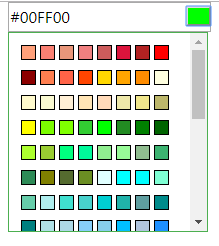
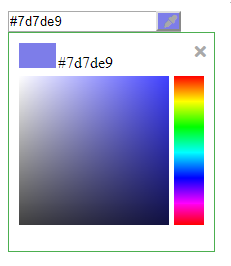
add canvas to select color

diff --git a/projects/np-color-picker/src/lib/np-color-picker.component.ts b/projects/np-color-picker/src/lib/np-color-picker.component.ts
@@ -17,7 +17,8 @@ export class NpColorPickerComponent implements OnInit {
   @Output() onChange: EventEmitter<any> = new EventEmitter();
   @Input() disabled: boolean;
 
-  _primaryColor: string = "#0000ff";
+  _stripColor: string = "#0000ff";
+  _currentCursorColor: string = "";
 
   public context: CanvasRenderingContext2D;
 
@@ -33,9 +34,11 @@ export class NpColorPickerComponent implements OnInit {
     }
   }
 
-  ngOnChanges(changes: SimpleChanges) {
+  ngOnChanges(changes: SimpleChanges) {    
     if (changes.value != undefined && changes.value.currentValue != this._value) {
       this._value = changes.value.currentValue;
+      this._currentCursorColor = changes.value.currentValue;
+      this._stripColor = changes.value.currentValue;      
       if (this.onChange != undefined && !changes.value.firstChange) {
         this.onChange.emit(this._value);
       }
@@ -57,6 +60,8 @@ export class NpColorPickerComponent implements OnInit {
 
   _onInputChange() {
     this.value = this._value;
+    this._currentCursorColor = this._value;
+    this._stripColor = this._value;
     this.valueChange.emit(this._value);
     if (this.onChange != undefined) {
       this.onChange.emit(this._value);
@@ -69,7 +74,7 @@ export class NpColorPickerComponent implements OnInit {
     var ctx1 = block.getContext('2d');
     var ctx2 = strip.getContext('2d');
 
-    ctx1.fillStyle = this._primaryColor.length > 0 ? this._primaryColor : this.value;
+    ctx1.fillStyle = this._stripColor.length > 0 ? this._stripColor : this.value;
     ctx1.fillRect(0, 0, 200, 200);
 
     var grdWhite = ctx2.createLinearGradient(0, 0, 200, 0);
@@ -97,25 +102,35 @@ export class NpColorPickerComponent implements OnInit {
     ctx2.fill();
   }
 
-  clickStrip(e: any) {
+  clickStrip(e: any, isUpdateColor: boolean) {
     var strip = <HTMLCanvasElement>this.elRef.nativeElement.querySelector('.np-canvas-strip');
     var ctx2 = strip.getContext('2d');
     var x = e.offsetX;
     var y = e.offsetY;
     var imageData = ctx2.getImageData(x, y, 1, 1).data;
-    this._primaryColor = this.fullColorHex(imageData[0], imageData[1], imageData[2]);
-    this._updateCanvas();
+    if (isUpdateColor) {
+      this._stripColor = this.fullColorHex(imageData[0], imageData[1], imageData[2]);
+      this._currentCursorColor = this._stripColor;
+      this._updateCanvas();
+    } else {
+      this._currentCursorColor = this.fullColorHex(imageData[0], imageData[1], imageData[2]);
+    }
   }
 
-  changeColor(e: any) {
+  changeColor(e: any, isUpdateColor: boolean) {
     var block = <HTMLCanvasElement>this.elRef.nativeElement.querySelector('.np-canvas-block');
     var ctx1 = block.getContext('2d');
     var x = e.offsetX;
     var y = e.offsetY;
     var imageData = ctx1.getImageData(x, y, 1, 1).data;
-    this._value = this.fullColorHex(imageData[0], imageData[1], imageData[2]);
-    this.value = this._value;
-    this.valueChange.emit(this._value);
+    if (isUpdateColor) {
+      this._value = this.fullColorHex(imageData[0], imageData[1], imageData[2]);
+      this.value = this._value;
+      this._currentCursorColor = this._value;
+      this.valueChange.emit(this._value);
+    } else {
+      this._currentCursorColor = this.fullColorHex(imageData[0], imageData[1], imageData[2]);
+    }
   }
 
   fullColorHex(r: number, g: number, b: number) {
@@ -132,4 +147,16 @@ export class NpColorPickerComponent implements OnInit {
     }
     return hex;
   };
+
+  onMouseLeaveStrip($event){
+    this._currentCursorColor = this._value;
+  }
+
+  onMouseLeaveBlock($event){
+    this._currentCursorColor = this._value;
+  }
+
+  close(){
+    this._isOpen = false;
+  }
 }

diff --git a/projects/np-color-picker/src/lib/np-color-picker.component.html b/projects/np-color-picker/src/lib/np-color-picker.component.html
@@ -9,12 +9,17 @@
     </div>
     <div class="np-component-div" *ngIf="_isOpen || defaultOpen" [ngClass]="{'np-open-component' : defaultOpen}">
         <div>
-            <div>{{_value}}</div>
-            <div [ngStyle]="{'background-color': _value}"></div>
+            <div class="np-selected-block" [ngStyle]="{'background-color': _currentCursorColor}"></div>
+            <div class="np-selected-text">{{_currentCursorColor}}</div>
+            <div (click)="_close()" class="np-close-button" *ngIf="!defaultOpen">
+                <i class="np-icon icon-close"></i>
+              </div>            
         </div>
-        <div class="np-color-shades">
-            <canvas class="np-canvas-block" width="150" height="150" (click)="changeColor($event)"></canvas>
-            <canvas class="np-canvas-strip" width="30" height="150" (click)="clickStrip($event)"></canvas>
+        <div>
+            <canvas class="np-canvas-block" width="150" height="150" (click)="changeColor($event, true)"
+                (mousemove)="changeColor($event, false)" (mouseleave)="onMouseLeaveBlock($event)"></canvas>
+            <canvas class="np-canvas-strip" width="30" height="150" (click)="clickStrip($event, true)"
+                (mousemove)="clickStrip($event, false)" (mouseleave)="onMouseLeaveStrip($event)"></canvas>
         </div>
     </div>
 </div>

diff --git a/projects/np-color-picker/src/lib/np-color-picker.component.css b/projects/np-color-picker/src/lib/np-color-picker.component.css
@@ -56,11 +56,23 @@
     padding-right: 5px;
 }
 
-.np-selected {
-    padding: 5px;
-    margin-bottom: 5px;
+.np-selected-text {
+    width: 70%;
+    line-height: 25px;
+    display: inline-block;
+    padding:2px;
+}
+
+.np-selected-block {
+    width: 20%;
+    height: 25px;
+    display: inline-block;
 }
 
 canvas:hover {
     cursor: crosshair;
+}
+
+.np-close-button{
+    width:5%;
 }

diff --git a/README.md b/README.md
@@ -7,7 +7,7 @@ Angular 8 UI Component
 ````
 
 ````
-<np-color-picker [value]="currentColor2" [colorList]="colorList" (onChange)="onColorSelect($event)"></np-color-picker>
+<np-color-picker [value]="currentColor" (onChange)="onColorSelect($event)"></np-color-picker>
 ````
 
 ### Properties
@@ -15,21 +15,12 @@ Angular 8 UI Component
 1.  value : string
     Selected color variable
 
-2.  colorList : string[]
-    array of string, list of colors to available
-
-3.  disabled
+2.  disabled
     true/false - set component disabled
 
-4.  defaultOpen
+3.  defaultOpen
     true/false
     default open or not.    
-
-5.  height
-    string value like '200px', default is '120px'
-
-6.  width
-    string value like '200px', default is '200px'
 ````
 
 ## Methods

diff --git a/projects/np-color-picker/README.md b/projects/np-color-picker/README.md
@@ -5,7 +5,7 @@ Angular 8 UI Component
 ````
 
 ````
-<np-color-picker [value]="currentColor2" [colorList]="colorList" (onChange)="onColorSelect($event)"></np-color-picker>
+<np-color-picker [value]="currentColor" (onChange)="onColorSelect($event)"></np-color-picker>
 ````
 
 ### Properties
@@ -13,21 +13,12 @@ Angular 8 UI Component
 1.  value : string
     Selected color variable
 
-2.  colorList : string[]
-    array of string, list of colors to available
-
-3.  disabled
+2.  disabled
     true/false - set component disabled
 
-4.  defaultOpen
+3.  defaultOpen
     true/false
     default open or not.    
-
-5.  height
-    string value like '200px', default is '120px'
-
-6.  width
-    string value like '200px', default is '200px'
 ````
 
 ## Methods
